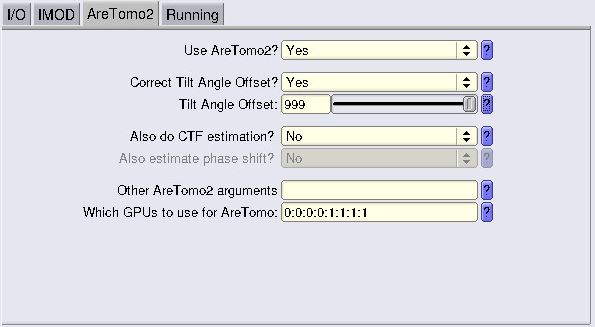
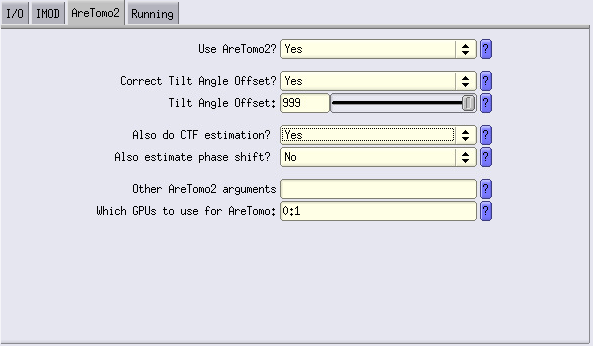
update preprocessing relion5

Changed region(s): [[0.0, 0.0, 1.0, 0.9786]]

diff --git a/docs/03-tutorial/03-relion-preprocessing/index.md b/docs/03-tutorial/03-relion-preprocessing/index.md
@@ -14,15 +14,16 @@ nav_order: 3
 Create a clean working folder and name it however you want.
 
 In the folder you created, open a terminal.
-
 Load RELION5 and launch the tomo branch.
 
 ```bash
-ml RELION
- 
 relion --tomo &
 ```
 A GUI pops-up, you are in RELION.
+
+<a href="/imgs/14_gui.JPG" data-lightbox="image-gallery">
+  <img src="/imgs/14_gui.JPG" alt="Processing Workflow" style="width:60%;">
+</a>
 
 ## Import frames
 
@@ -70,39 +71,52 @@ Don't forget to indicate the proper gainref in the Motion tab!
   <img src="/imgs/17_Motion1.JPG" alt="Processing Workflow" style="width:60%;">
 </a>
 
-Once this is done, run CTF estimation with the default parameters. Just make sure that the executable is proper.
+For CTF estimation, you can run a CTF estimation job, using the default parameters (CTFFIND-4.1 implementation).
+However, **we recommend you to estimate CTF using AreTomo** (it's the step after this one), which in our hands, performs better.
 
-Make sure that CTF is properly estimated by checking the .pdf output. If it's not you can change the base settings.
-
-> **Placeholder CTFFIND4 screenshot**
-
-We recommend estimating CTF with AreTomo in the next step.
+If you still choose to CTFFIND, make sure CTF is properly estimated by checking the .pdf output (in the jobXXX directory). 
 
 ## Cleaning the stack
 
-Opens Napari to select the tilts to exclude. Bad tilts are:
+Once motioncorr is done, you might want to remove bad tilts. Bad tilts are either:
 
 - Strongly shifted compared to the others (more than 15% of the FOV)
 - Partially or fully blacked out - especially high tilts
 - Blurred because motion correction was not sufficient
 
-> **Placeholder NAPARI screenshot**  
+In our case we remove them manually, but be aware that some software offer automated tilt curation based on the result of motion correction and the "darkness-level" of the tilts (for example AreTomo)
 
-Works, it's just slow and the contrast is bad ...
+Run an <kbd>Exclude tit-images</kbd> job using the output of MotionCorr or CTF estimation. Don't submit to queue.
+
+This will open Napari (it might be slow to open).
+Napari, is an interactive, open-source Python tool for visualizing, annotating, and analyzing large multi-dimensional images, designed to support scientific workflows with an extensible plugin ecosystem
+
+<a href="/imgs/17_napari.png" data-lightbox="image-gallery">
+  <img src="/imgs/17_napari.png" alt="Processing Workflow" style="width:60%;">
+</a>
+
+Go through the tilt stack and untick the stacks that aren't good. In that case for example (tomo24) tilts -67° to -70° and 41° to 50° were blacked out, so we removed them. Be aware that Napari does not handle the contrast of tomograms that well...
+
+Once you are done with all the TS, you can press <kbd>save tilt-series STAR file</kbd> and proceed to the next step.
 
 ## TS alignment
 
 Getting a properly aligned tilt series is very important for efficient particle detection and for tomogram "good looking-ness".
 
-Similar to Scipion, in RELION you can either do it using AreTomo or with IMOD patch tracking.
+Similar to Scipion, in RELION you can either do it using AreTomo or, the more manual way with IMOD patch tracking.
 
-For this dataset, and in general for quick alignment, AreTomo is good enough. This is why we are going to show you how to automatically do it with AreTomo.
+For this dataset, and in general, AreTomo works great. This is why we are going to show you how to automatically do it with AreTomo.
 
-AreTomo tries to find the optimal back projection scheme based on a theoritical lamella thickness. It will also find and refine the tilt axis angle, starting from the one you provided at the import step.
+AreTomo tries to find the optimal back projection scheme based on a theoretical lamella thickness. It will also find and refine the tilt axis angle, starting from the one you provided at the import step.
 
-The way AreTomo works right now in RELION5 is a bit restrictive. In the GUI, you can only set a single estimated tomogram thickness. AreTomo performs best when the tomogram thickness is accurate, so having one value for all tomos is not optimal.  
-Here, let's run a first alignment with a value of 200 nm.  
-Set Correct Tilt Angle Offset to **YES**.
+The way AreTomo works right now in RELION5 is a bit restrictive. In the GUI, you can only set a single estimated tomogram thickness.
+AreTomo performs best when the tomogram thickness is accurate, so having one value for all tomos is not optimal.
+
+Make sure the path to the AreTomo2 executable is correct and points to your system.
+
+Here, let's run a first alignment with a value of 200 nm. 
+Set Correct Tilt Angle Offset to YES.
+Also, this is were we are going to use AreTomo for CTF estimation.
 
 <a href="/imgs/18_ALI1.JPG" data-lightbox="image-gallery">
   <img src="/imgs/18_ALI1.JPG" alt="Processing Workflow" style="width:60%;">
@@ -110,6 +124,29 @@ Set Correct Tilt Angle Offset to **YES**.
 <a href="/imgs/19_ALI1.JPG" data-lightbox="image-gallery">
   <img src="/imgs/19_ALI1.JPG" alt="Processing Workflow" style="width:60%;">
 </a>
+
+Run the job.
+
+## Tomogram reconstruction
+
+We are now going to quickly reconstruct **bin8** tomograms.
+
+To do so, let's launch a <kbd>Reconstruct tomograms</kbd> job.
+
+<a href="/imgs/19_recons.png" data-lightbox="image-gallery">
+  <img src="/imgs/19_recons.png" alt="Processing Workflow" style="width:60%;">
+</a>
+<a href="/imgs/19_recons2.png" data-lightbox="image-gallery">
+  <img src="/imgs/19_recons2.png" alt="Processing Workflow" style="width:60%;">
+</a>
+
+In <kbd>I/O</kbd> fill the info as shown, and in the go to the <kbd>Reconstruct</kbd> tab.
+
+Fill in the info about to your tomogram dimensions, here 4096 4096 2048 (bin1 dimensions).
+For the pixel size, we will bin by 8, so we use a value of **15.28 Å/px**.
+
+Run the job. You now have bin8 tomograms.
+
 
 ## Refining TS alignment:
 
@@ -143,16 +180,11 @@ Whenever you modify a file, create a copy of the original and name it *_ori, so 
 Then run the AreTomo job again with the edited selected_tilt_series.star and run the tomo reconstruction. Your tomo should look better.  
 To be sure it was taken into account, check the .log and _AlignZ_ should be different for all tomos.
 
-## Tomogram reconstruction
+## Generate CTF corrected tomograms
 
-Fill in the info about your tomogram dimensions, here **4096 4096 2048**, and pixel size. Here **7.64** for bin4 tomos.
+Once we are satisfied with the alignment of our tomograms, we can reconstruct bin4 CTF corrected tomogram for template matching.
 
-I would advise you to first reconstruct all the tomos with AreTomo (with corrected Z thickness). Then check the ones that are not properly reconstructed.
-
-For the ones that are not properly reconstructed, align them using IMOD, and then at the Reconstruct step, only reconstruct the ones that were not properly reconstructed using AreTomo using the "Reconstruct only these tomo" option.
-
-Tilt angle offset: If you reconstructed with AreTomo, you don't need to use this because AreTomo automatically flatens the tomo.  
-IMOD is not doing it (you can correct it manually in etomo, but for some reason the current version of RELION is not reading it). Hence your tomo will be tilted. Here the tilt angle was about 10°, so you need to specify 10 to correct it.
+Tilt angle offset: If you recontructed with AreTomo, you don't need to use this because AreTomo automatically flatens the tomo.
 
 <a href="/imgs/22_recons.JPG" data-lightbox="image-gallery">
   <img src="/imgs/22_recons.JPG" alt="Processing Workflow" style="width:60%;">
